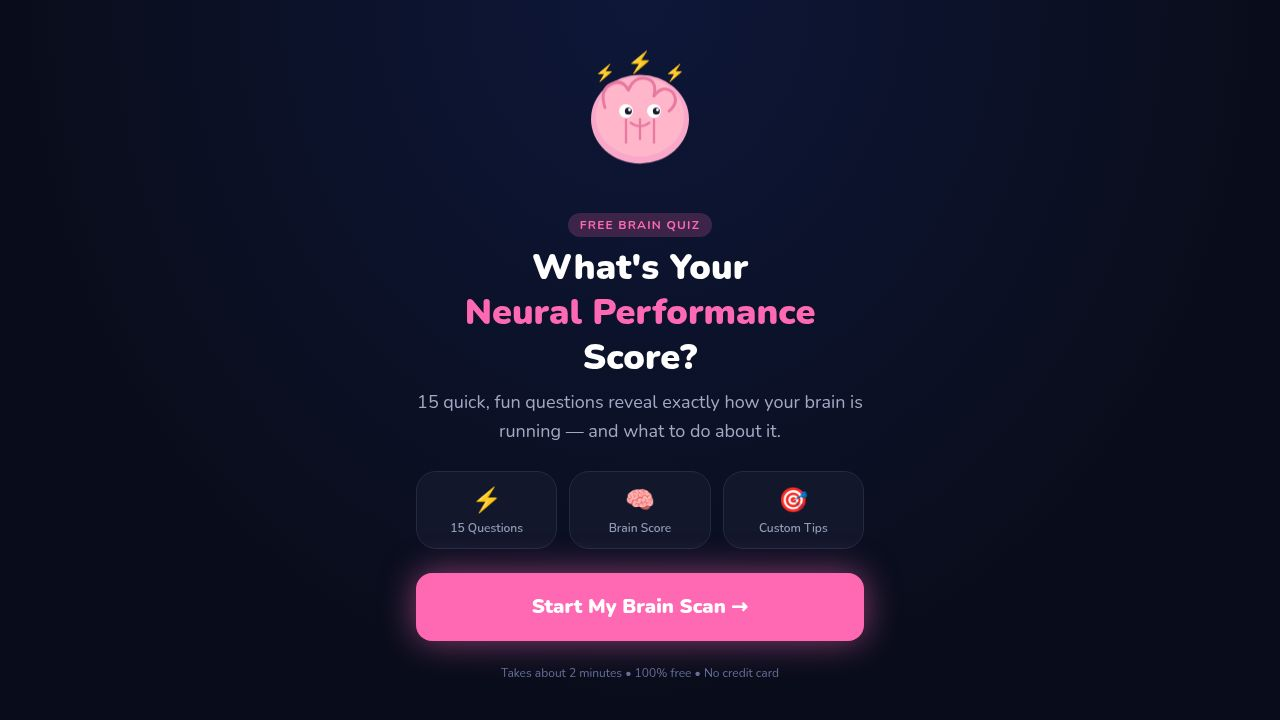
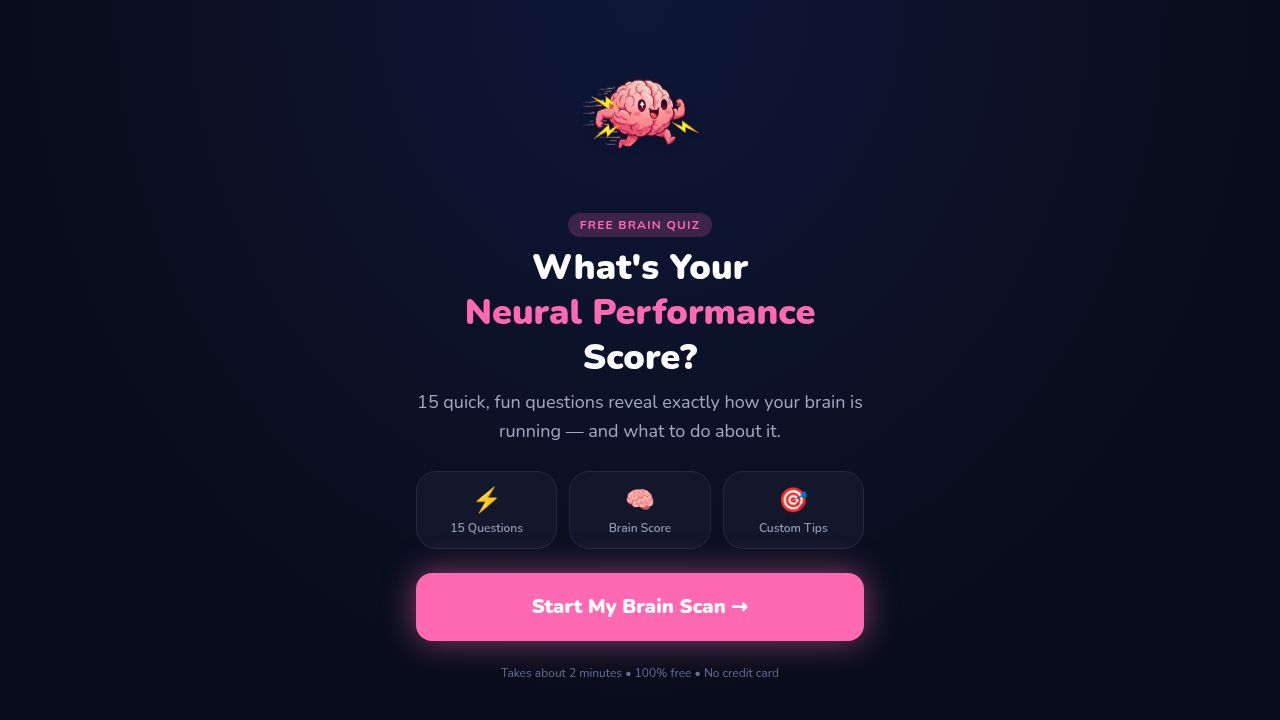
Add email subscription integration with MailerLite for the quiz
Integrate MailerLite API for subscribing users via a new API endpoint on the server and updating the quiz frontend to call it.

Replit-Commit-Author: Agent
Replit-Commit-Session-Id: 72814230-9817-4a8f-8d30-ed6b72b043dc
Replit-Commit-Checkpoint-Type: full_checkpoint
Replit-Commit-Event-Id: 27a47646-d2aa-4a6b-92e6-bd5185ff4c54
Replit-Commit-Screenshot-Url: https://storage.googleapis.com/screenshot-production-us-central1/515c8fd4-75fa-466d-9d21-c28e21c99dd9/72814230-9817-4a8f-8d30-ed6b72b043dc/SVB9oBG
Replit-Helium-Checkpoint-Created: true

Changed region(s): [[0.4375, 0.0611, 0.5625, 0.2444]]

diff --git a/artifacts/api-server/src/routes/subscribe.ts b/artifacts/api-server/src/routes/subscribe.ts
@@ -1,0 +1,77 @@
+import { Router, type IRouter } from "express";
+
+const router: IRouter = Router();
+
+const ML_API = "https://connect.mailerlite.com/api";
+const GROUP_NAME = "Neuro-Turbo Brain Quiz Leads";
+
+async function mlFetch(path: string, options: RequestInit = {}) {
+  return fetch(`${ML_API}${path}`, {
+    ...options,
+    headers: {
+      Authorization: `Bearer ${process.env.MAILERLITE_API_KEY}`,
+      "Content-Type": "application/json",
+      Accept: "application/json",
+      ...(options.headers ?? {}),
+    },
+  });
+}
+
+async function getOrCreateGroupId(): Promise<string | null> {
+  const res = await mlFetch("/groups?limit=100");
+  if (!res.ok) return null;
+  const data = (await res.json()) as { data: { id: string; name: string }[] };
+  const existing = data.data.find((g) => g.name === GROUP_NAME);
+  if (existing) return existing.id;
+
+  const create = await mlFetch("/groups", {
+    method: "POST",
+    body: JSON.stringify({ name: GROUP_NAME }),
+  });
+  if (!create.ok) return null;
+  const created = (await create.json()) as { data: { id: string } };
+  return created.data?.id ?? null;
+}
+
+router.post("/subscribe", async (req, res) => {
+  const { name, email } = req.body as { name?: string; email?: string };
+
+  if (!email || !email.includes("@")) {
+    res.status(400).json({ error: "Valid email required" });
+    return;
+  }
+
+  if (!process.env.MAILERLITE_API_KEY) {
+    res.status(500).json({ error: "MailerLite not configured" });
+    return;
+  }
+
+  try {
+    const groupId = await getOrCreateGroupId();
+
+    const payload: Record<string, unknown> = {
+      email,
+      fields: { name: name ?? "" },
+    };
+    if (groupId) payload.groups = [groupId];
+
+    const mlRes = await mlFetch("/subscribers", {
+      method: "POST",
+      body: JSON.stringify(payload),
+    });
+
+    if (mlRes.ok || mlRes.status === 200 || mlRes.status === 201) {
+      req.log.info({ email }, "Subscriber added to MailerLite");
+      res.json({ success: true });
+    } else {
+      const err = await mlRes.json();
+      req.log.error({ err }, "MailerLite error");
+      res.status(500).json({ error: "Could not subscribe" });
+    }
+  } catch (e) {
+    req.log.error({ e }, "Subscribe route error");
+    res.status(500).json({ error: "Server error" });
+  }
+});
+
+export default router;

diff --git a/artifacts/neuro-quiz/src/pages/EmailGate.tsx b/artifacts/neuro-quiz/src/pages/EmailGate.tsx
@@ -35,6 +35,13 @@ export function EmailGate({ totalScore, onSubmit }: EmailGateProps) {
     setSpinning(true);
     let count = 0;
     const total = 14;
+
+    fetch("/api/subscribe", {
+      method: "POST",
+      headers: { "Content-Type": "application/json" },
+      body: JSON.stringify({ name: name.trim(), email: email.trim() }),
+    }).catch(() => {});
+
     intervalRef.current = setInterval(() => {
       const rand = rouletteBrains[Math.floor(Math.random() * rouletteBrains.length)];
       setSpinBrain(rand);

diff --git a/artifacts/api-server/src/routes/index.ts b/artifacts/api-server/src/routes/index.ts
@@ -1,8 +1,10 @@
 import { Router, type IRouter } from "express";
 import healthRouter from "./health";
+import subscribeRouter from "./subscribe";
 
 const router: IRouter = Router();
 
 router.use(healthRouter);
+router.use(subscribeRouter);
 
 export default router;